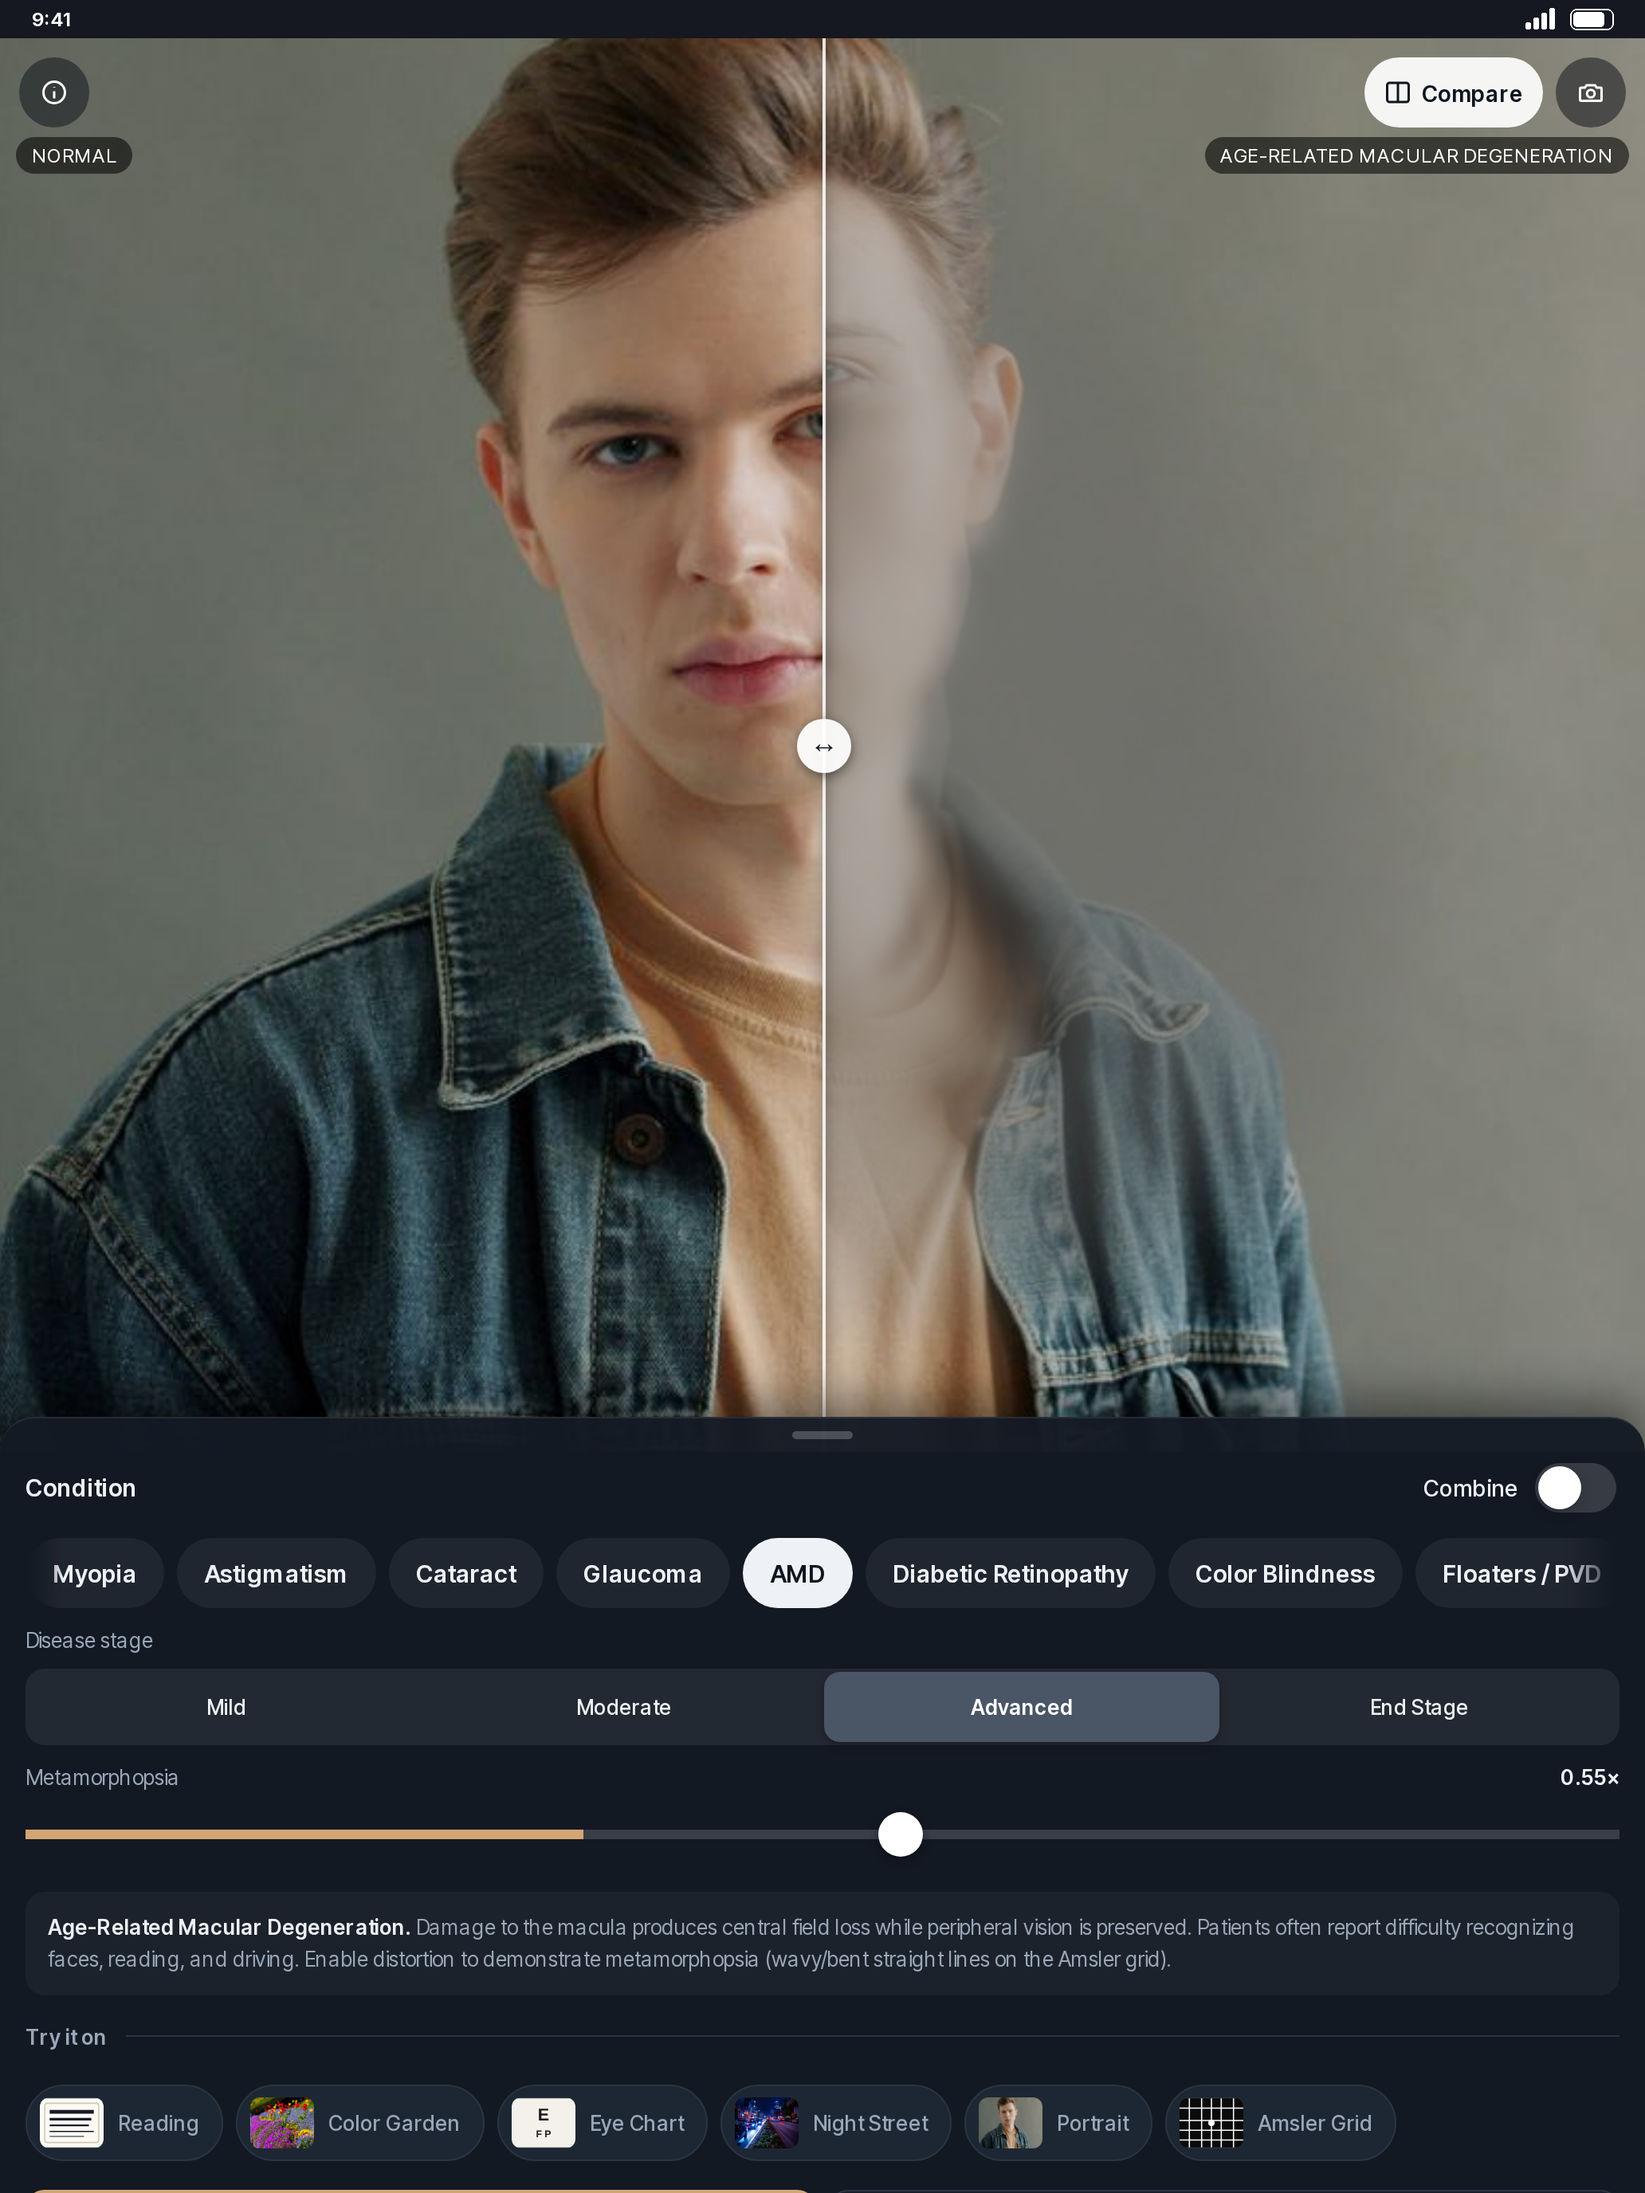
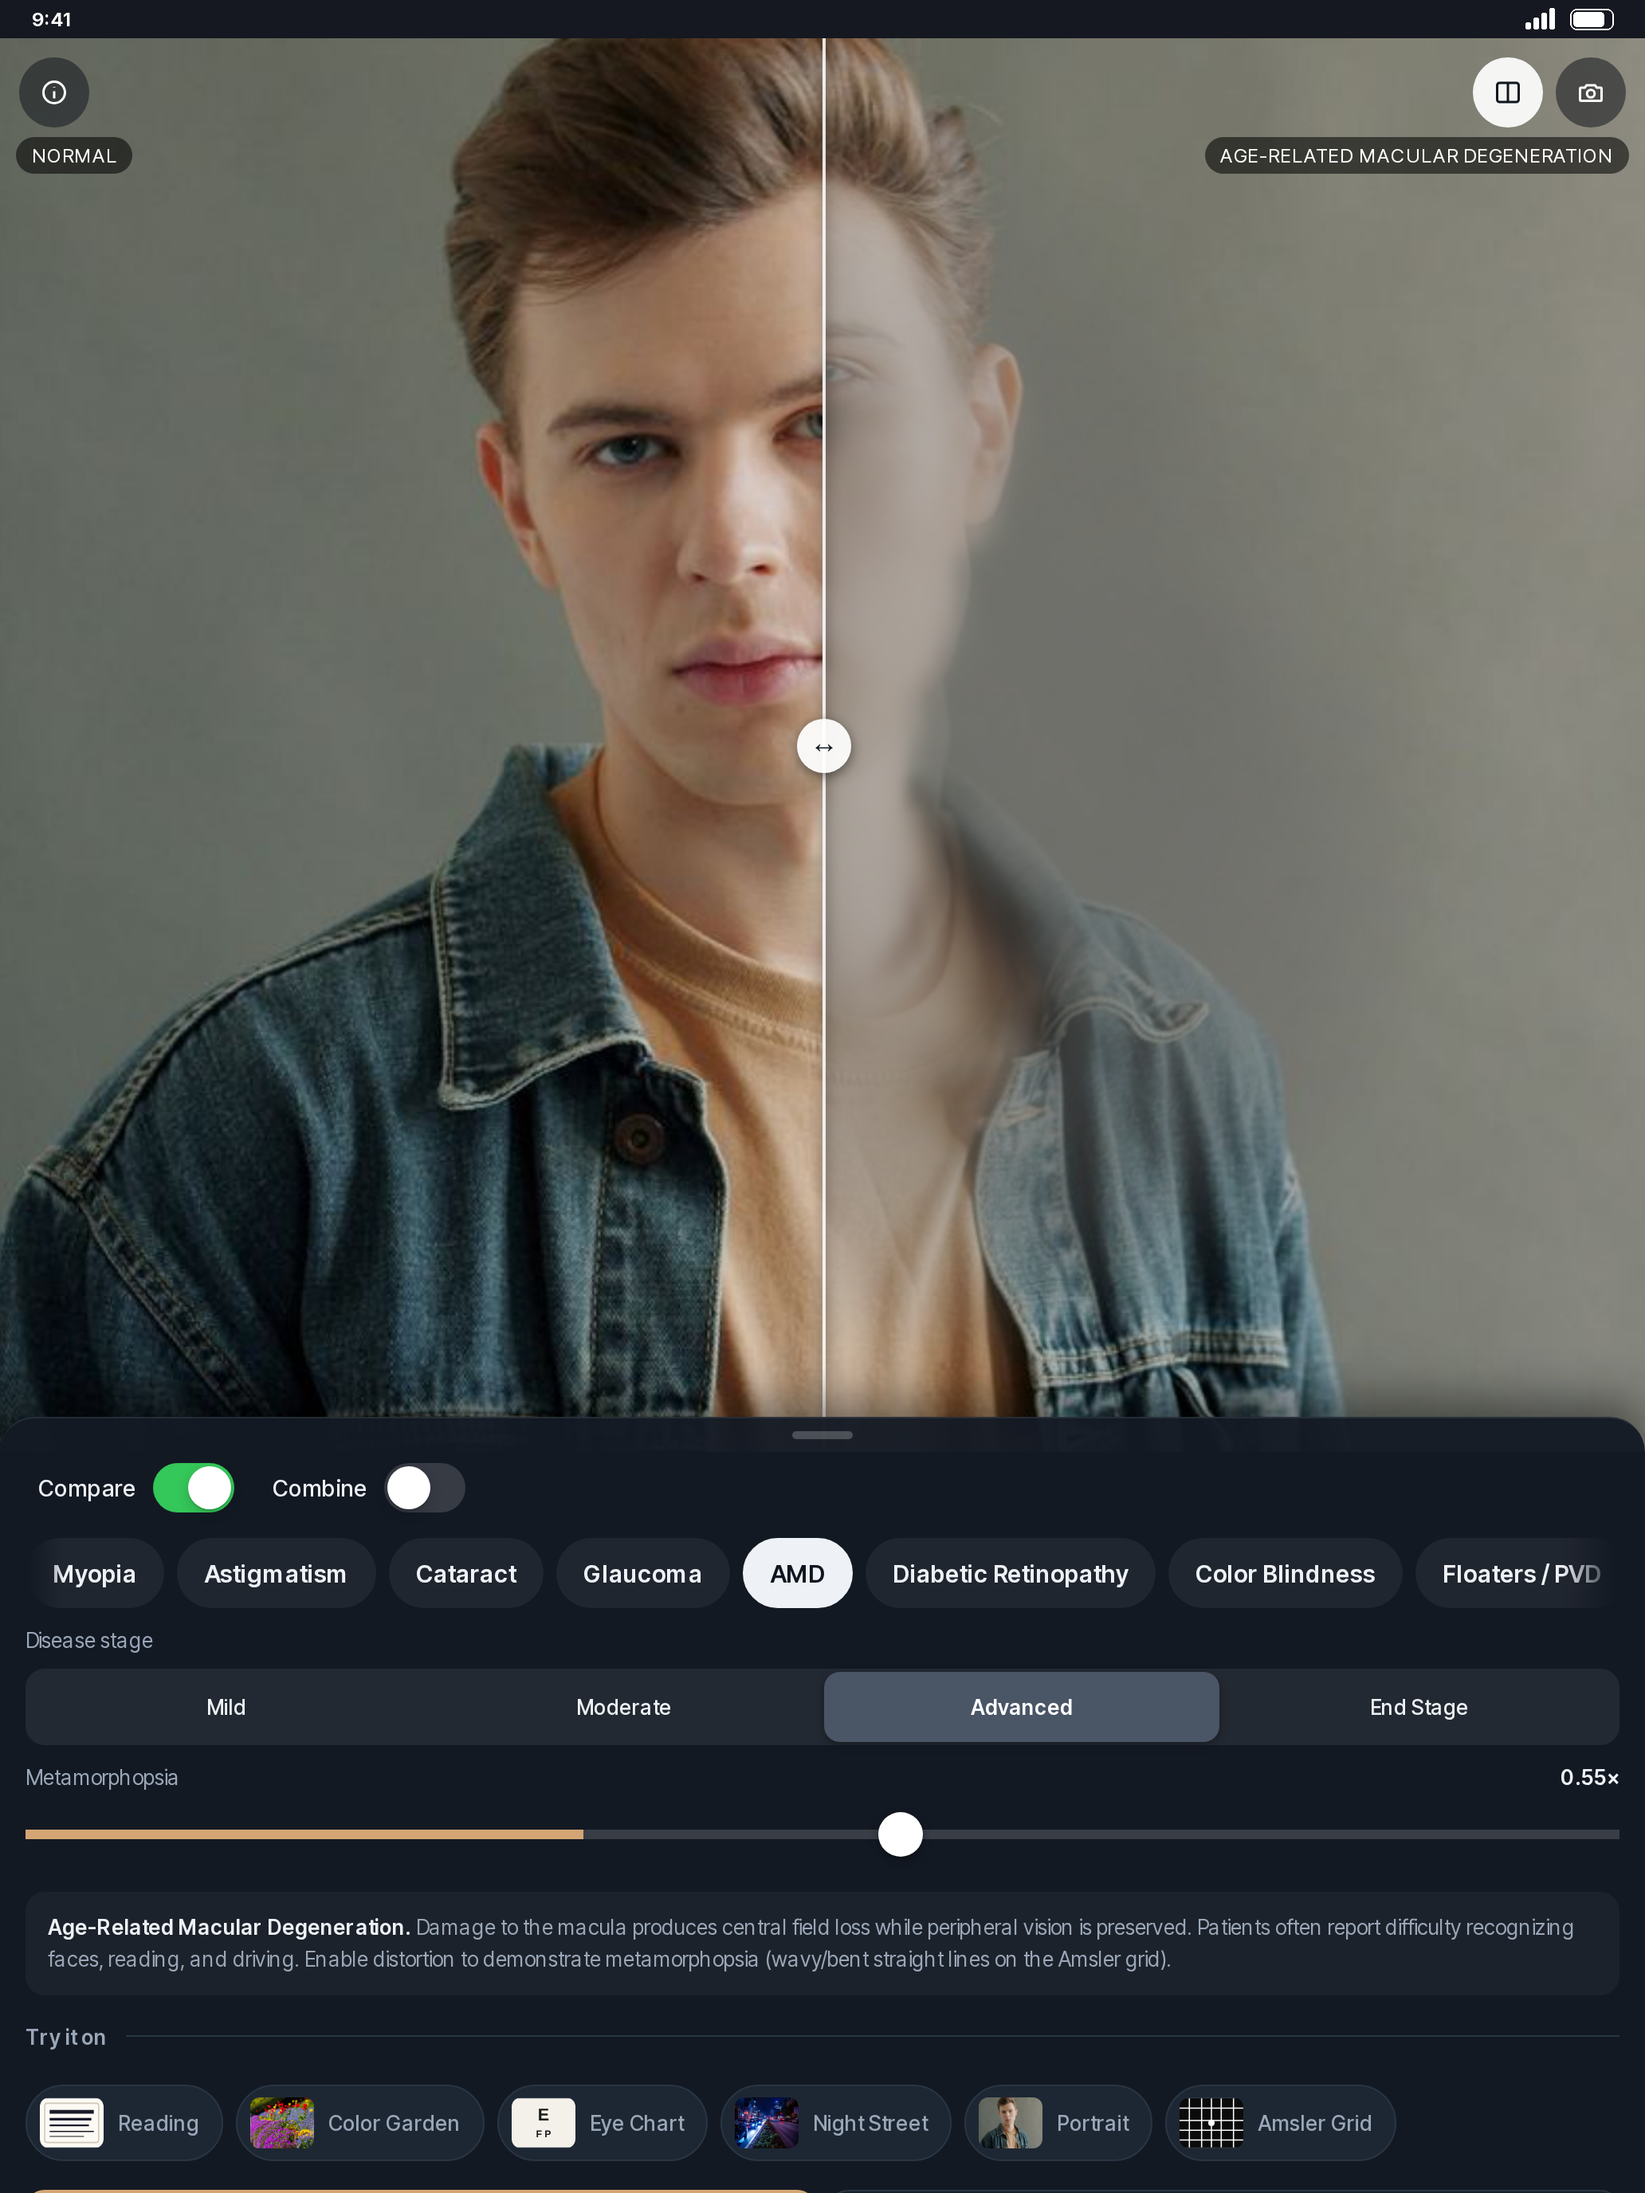
Vision Simulator screenshots v4: recapture #2 cataract, #3 AMD, #5 Free+Pro with the Compare switch
#1 hero and #4 color vision (full screen, no controls) unchanged.

diff --git a/vision-simulator/store-v4/capture_store_v4.py b/vision-simulator/store-v4/capture_store_v4.py
@@ -10,8 +10,11 @@ FACE = "/workspace/vs-shots/vision-simulator/screens/src/hero-face.jpg"
 TMP = "/tmp/vs-store"; os.makedirs(TMP, exist_ok=True)
 DEVICES = [("", 420, 912, 3, False), ("ipad-", 1032, 1376, 2, True)]
 
+async def set_compare(p, on):
+    cur = await p.evaluate("document.getElementById('compareSwitch').getAttribute('aria-checked') === 'true'")
+    if cur != on: await p.evaluate("document.getElementById('compareSwitch').click()"); await p.wait_for_timeout(300)
 async def compare(p, split):
-    await p.evaluate("document.getElementById('hudCompare').click()"); await p.wait_for_timeout(300)
+    await set_compare(p, True)
     if abs(split-0.5) > 0.01:
         box = await p.locator('.stage-wrap').bounding_box(); y = box['y'] + box['height']*0.55
         await p.mouse.move(box['x']+box['width']*0.5, y); await p.mouse.down()
@@ -29,13 +32,14 @@ async def hero(p, ipad):
 async def amd(p, ipad):
     await sample(p, 'face'); await cond(p, 'amd'); await preset(p, 'Advanced'); await compare(p, 0.5)
 async def cataract(p, ipad):
-    await sample(p, 'street'); await cond(p, 'cataract'); await slider(p, 'ctrl_cataractSev', 0.48)
+    await sample(p, 'street'); await cond(p, 'cataract'); await slider(p, 'ctrl_cataractSev', 0.48); await set_compare(p, False)
 async def colorblind(p, ipad):
     await sample(p, 'garden'); await cond(p, 'colorblind'); await preset(p, 'Protan (red)'); await compare(p, 0.5); await immersive(p)
 async def freepro(p, ipad):
     await p.wait_for_timeout(600)
     await p.evaluate("document.querySelector('.cond[data-cond=\"glaucoma\"]').click()")   # free user taps a Pro condition
     await p.wait_for_timeout(700)
+ONLY = os.environ.get("ONLY")
 SHOTS = [("s1-hero.png", hero, True), ("s2-amd-compare.png", amd, True), ("s3-cataract-night.png", cataract, True),
          ("s5-colorblind-compare.png", colorblind, True), ("s4-conditions-freepro.png", freepro, False)]
 
@@ -43,7 +47,7 @@ async def main():
     os.makedirs(OUT, exist_ok=True)
     async with async_playwright() as pw:
         b = await pw.chromium.launch(); errors = []
-        for fname, fn, pro in SHOTS:
+        for fname, fn, pro in [x for x in SHOTS if not ONLY or x[0] in ONLY.split(',')]:
             for prefix, w, h, dpr, ipad in DEVICES:
                 top = 24 if ipad else STATUS_PT
                 ctx, p = await new_page(b, BASE, w, h-top, dpr=dpr, pro=pro, safe_bottom=20 if ipad else 34)
